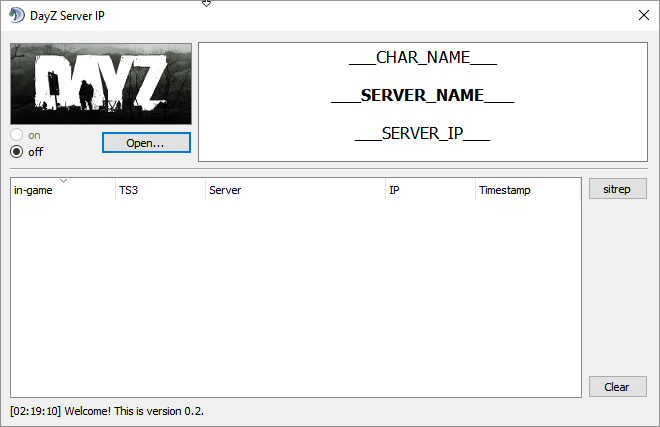
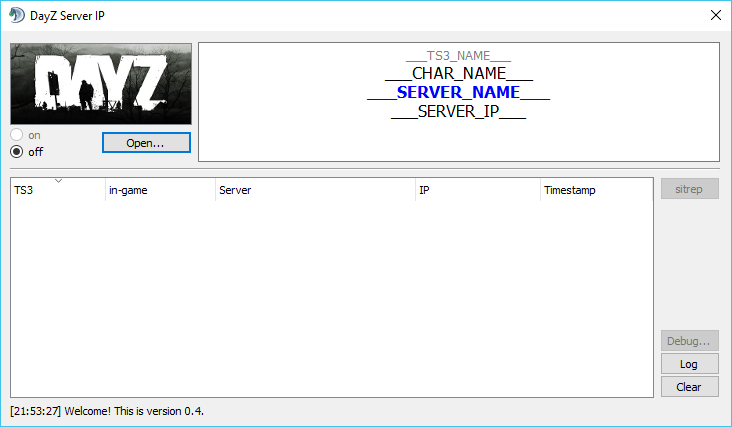
Update documentation to 0.4

diff --git a/doc/MANUAL.md b/doc/MANUAL.md
@@ -1,5 +1,5 @@
 # TL;DR - quickstart
-:information_source: __The detailed user guide is below!__
+:information_source: __This is for the impatient ones - the detailed user guide is below!__
 
 So you know your shit and don't want/need me to guide you through?  
 Fine by me - let's go!
@@ -56,17 +56,19 @@ This is what it looks like on its first start.
 
 ## Description
 
-Most of the upper half of the window is the "local info" section __(1)__. This is where your own ingame name, server name and IP are shown. The lower half is the "remote info" section __(2)__. It shows everybody else's ingame name, server name and server IP along with a timestamp to indicate when the last update was received.
+Most of the upper half of the window is the "local info" section __(1)__. This is where your TS3 name, in-game name, server name and IP are shown. The lower half is the "remote info" section __(2)__. It shows everybody else's in-game name, server name and server IP along with a timestamp to indicate when the last update was received.
 
-![alt-text](png/main_window_annotated.png)
+![alt-text](png/main_window_init_annotated.png)
 
 The buttons __(3)__ and __(4)__ are to select your `.DayzProfile` file and to turn this thing on and off. `on` __(4)__ means that your data will be sent to other clients in your TeamSpeak channel. It's disabled until you have chosen a valid `.DayZProfile` with the `Open...` button __(3)__. While the plugin will remember your profile from now on, it'll always start in `off` mode __(4)__ on purpose.
 
-The "remote info" section __(2)__ gets updated automatically whenever somebody joins a server. That also means that there won't be any updates in between, while everyone is playing. So if you're late to the party and everybody else has already joined a server, you'll have missed all those initial updates - and that's not good, is it? That's what the `sitrep` button __(5)__ is there for. You can manually request an update message from all other clients to get you started. _(This will probably be automated in the future / connected to a "client has joined the channel" event.)_
+The "remote info" section __(2)__ gets updated automatically whenever somebody joins a server. That also means that there won't be any updates in between, while everyone is playing. So if you're late to the party and everybody else has already joined a server, you'll have missed all those initial updates - and that's not good, is it? That's what the `sitrep` button __(5)__ is there for. You can manually request an update message from all other clients to get you started.
 
-The `Clear` button __(6)__ is hopefully self-explanatory, it gets rid of all the data in the "remote info" __(2)__ section. Note that this clears the view only temporarily - since the history is also saved on disk, it will all be there again the next time the plugin is started, i.e. when you restart TeamSpeak or disable/reenable the plugin. _(This behaviour will change in the future.)_
+The `Clear` button __(6)__ is hopefully self-explanatory, it gets rid of all the data in the "remote info" __(2)__ section.
+
+The `Debug...` and `Log` buttons __(7)__ are there to help me with debugging.
 
 # How does this work?
 It's not magic, that's for sure!
 
-Whenever there are changes to your `.DayZProfile` file, the plugin gathers server IP, server name and ingame name from it and sends a text message to your current channel in TeamSpeak. Those messages are plain text messages (you could even type them in yourself), but have a specific format so that the plugin can pick up on them. Pretty simple, eh? :wink:
+Whenever there are changes to your `.DayZProfile` file, the plugin gathers server IP, server name and in-game name from it and sends a text message to your current channel in TeamSpeak. Those messages are plain text messages (you could even type them in yourself), but have a specific format so that the plugin can pick up on them. Pretty simple, eh? :wink:

diff --git a/README.md b/README.md
@@ -4,7 +4,9 @@
 This plugin can show and automatically distribute and update the IP and name of the server that you're playing on across all your teammates in your channel. No more need to type the IP into the chat yourself or to join via Steam's friendlist.
 
 ## Features
->TODO documentation
+- Whenever you join a server, a message to your current channel is sent. The plugin picks up on the message and updates its list section ("remote info section", the lower half of the GUI).
+- If you don't like or need the GUI, just close it. The plugin will keep running.
+- The data in the remote info section is saved to disk.
 
 ## Usage
 There is a [manual](doc/MANUAL.md) that'll get you up and running in a minute!
@@ -12,15 +14,16 @@ There is a [manual](doc/MANUAL.md) that'll get you up and running in a minute!
 ## Download
 
 The plugin itself is just one file named `dayzsrvip.dll`, packaged as `.ts3_plugin` and available on the [releases](https://github.com/dehesselle/dayzsrvip/releases) page. If you prefer the plain DLL, rename the `.ts3_plugin` to `.zip` and get it from there.
+
 #### Requirements
 You need a recent 64bit version of [TeamSpeak](http://www.teamspeak.com) that provides plugin API v20. Just update to the latest version if you're not there already (at the time of writing: 3.0.19.4) and you're good to go.
 
 ## Build
 Building this yourself is pretty straight forward. Download and install Visual Studio 2013 and Qt 5.5.1. Open Qt Creator. Open the project `plugin/dayzsrvip.pro`. Start compiling.
 
-## Known Issues
-This project is still under heavy development and needs testing - there will be bugs!
-- documentation is not up to par with current release (sorry - things are happening fast now and fixing bugs for the people who take the time to test is way more important)
+## Issues and Limitations
+This project is still in development and needs testing - there will be bugs!  
+There are only very few safeguards in place, so if you intentionally want to break stuff, you will succeed.
 
 ## TODOs
 - documentation
